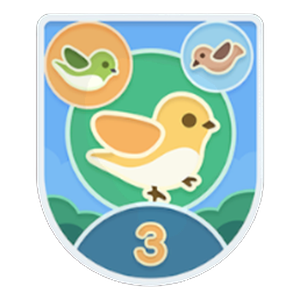
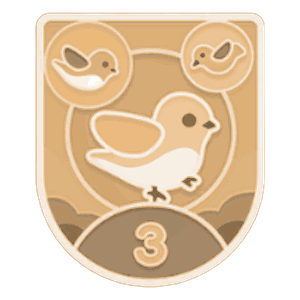
未達成用画像が元々無かった2件を他と同じ色味に加工
潮を呼ぶ者(id8)・魂の熱唱(id28)は、達成後スクショしか存在せず
未達成用の単色デザイン画像が無かったため、達成後画像がそのまま
imgLockedとして使われ他の実績と色味が揃っていなかった。

他の実績の達成後/未達成ペア28組から、輝度ごとの平均色を集計して
変換テーブルを作成し、達成後画像の輝度をこのテーブルで変換する
ことで、他の未達成バッジと同じ色味（暖色の単色調）の画像を生成。

Claude-Session: https://claude.ai/code/session_01K3eMRAeT6oYS9BRu22swvm

diff --git a/service-worker.js b/service-worker.js
@@ -1,5 +1,5 @@
 // キャッシュ名（更新時はバージョンを上げる）
-const CACHE_NAME = "hatopi-v2.609.0";
+const CACHE_NAME = "hatopi-v2.610.0";
 
 // キャッシュするファイル一覧
 const CACHE_FILES = [
